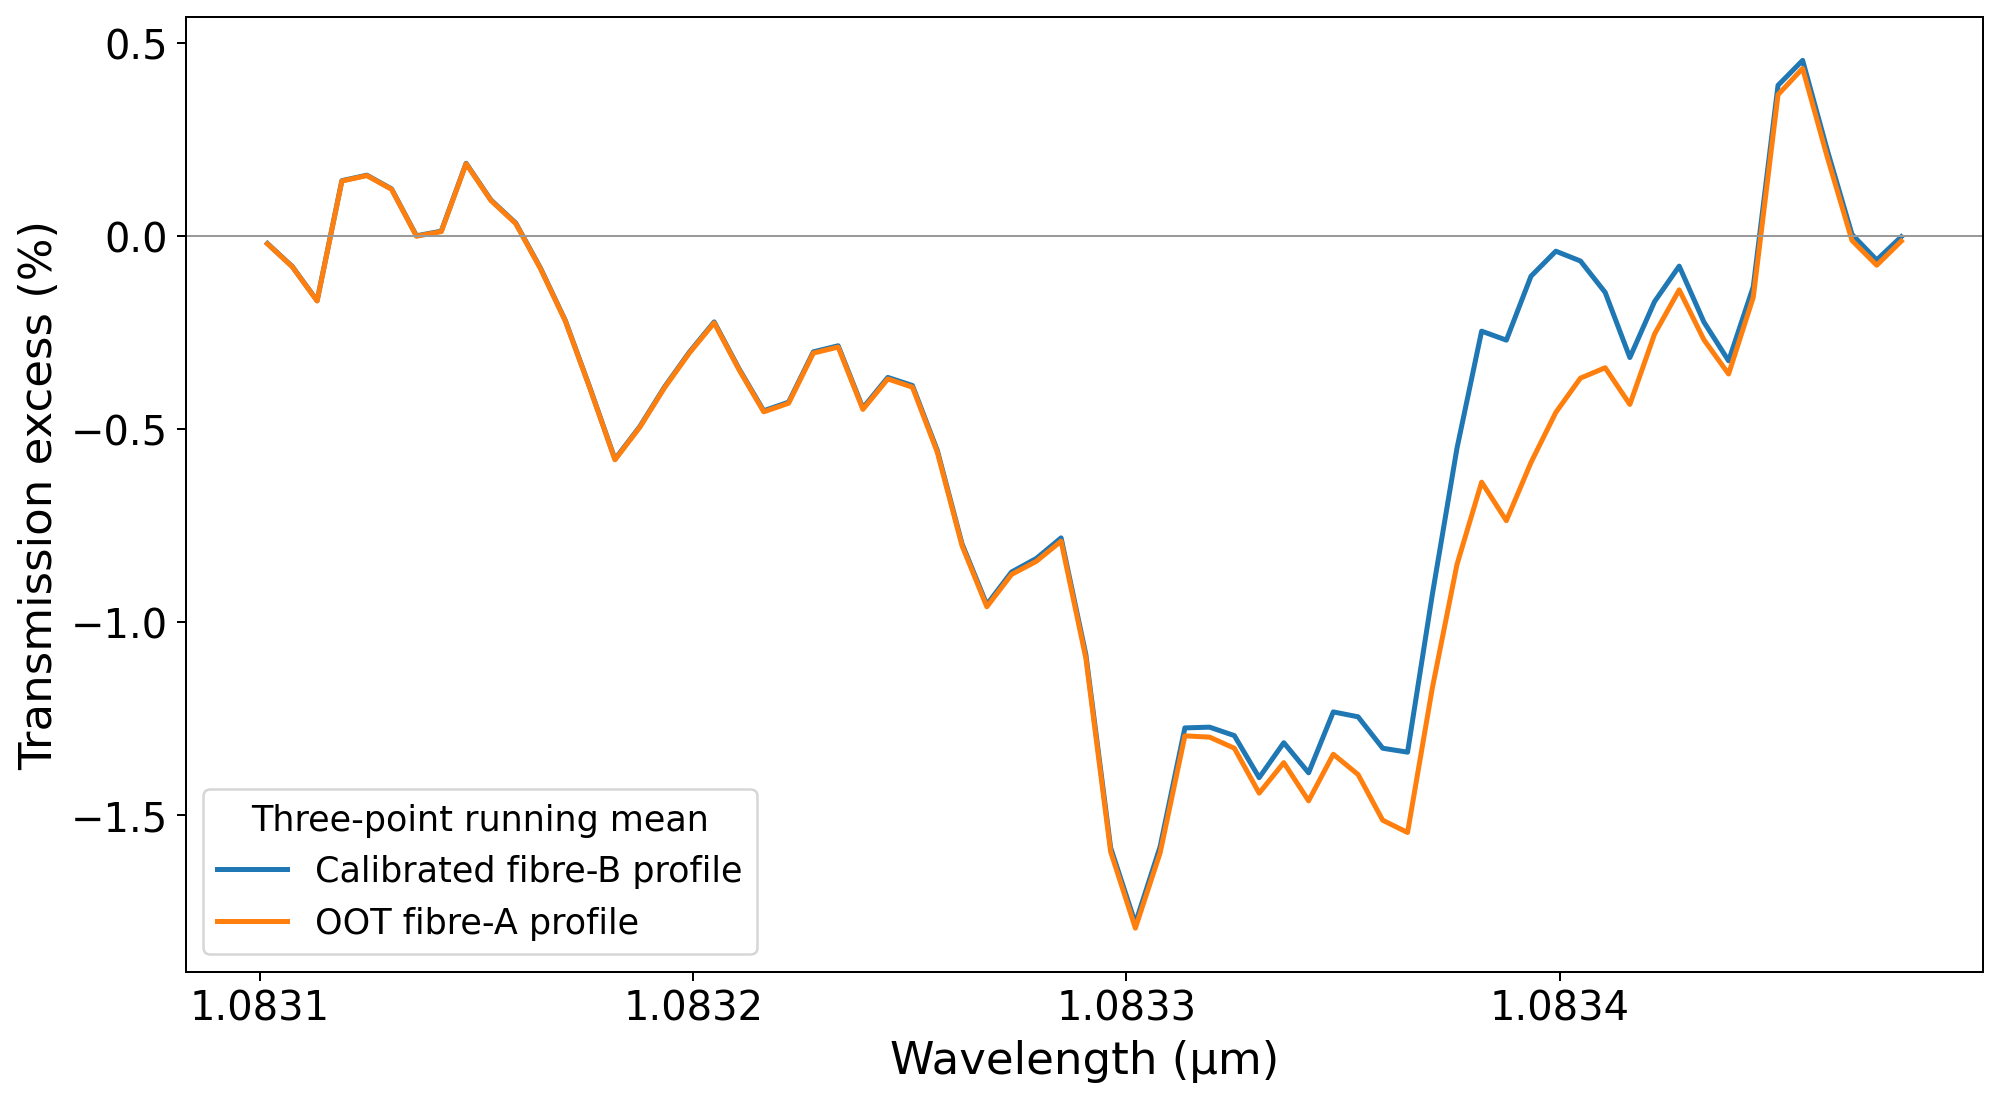
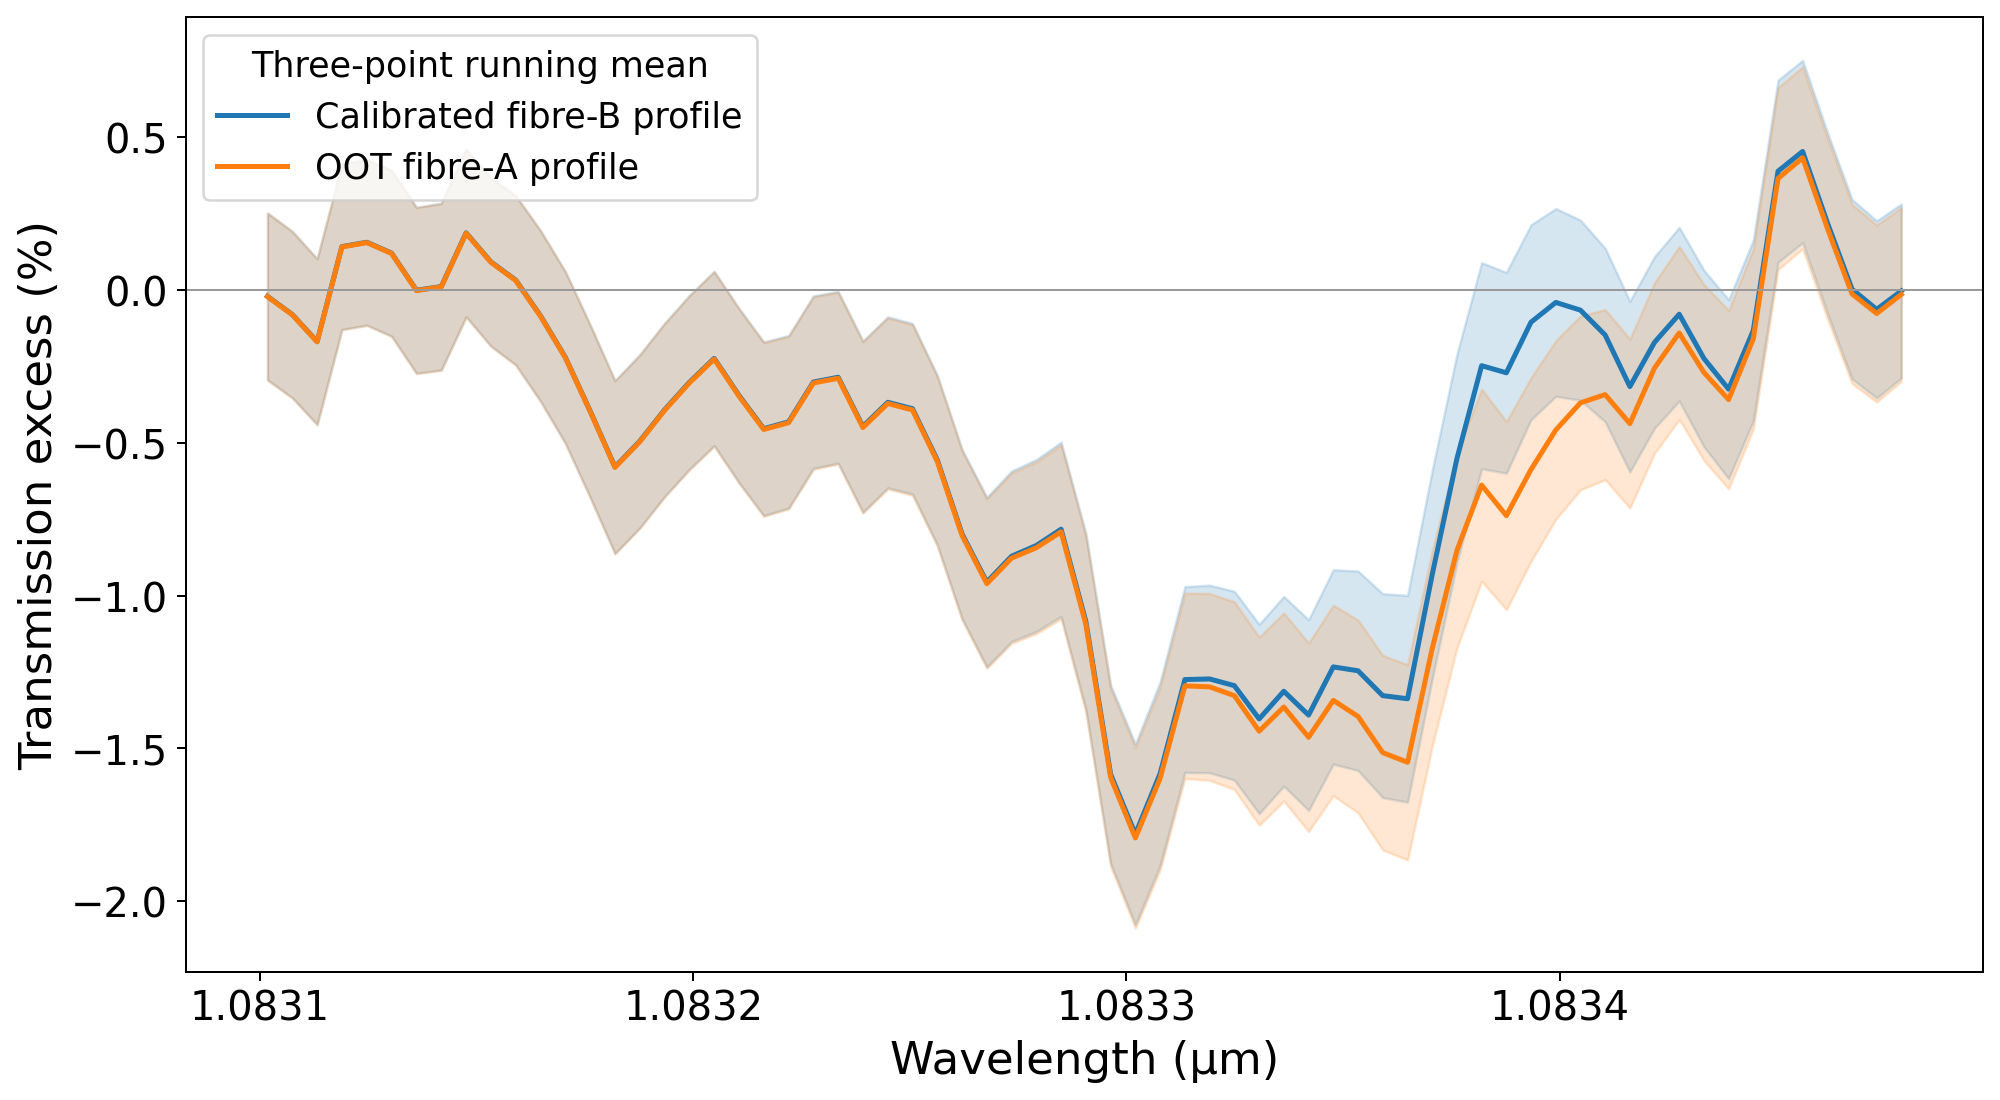
improve He tutorial

diff --git a/scripts/plot_carmenes_palle2020.py b/scripts/plot_carmenes_palle2020.py
@@ -107,14 +107,27 @@ def steps(directory,output_directory,cfg,science):
 
 
 def compare(directories,output):
-    """Compare saved planetary coadds with a three-point display mean."""
+    """Compare three-point display means with covariance-propagated 1σ bands."""
+    from scipy.sparse import csr_matrix, load_npz
     fig,ax=plt.subplots(figsize=(11,6),constrained_layout=True)
     labels=['Calibrated fibre-B profile','OOT fibre-A profile']
     for directory,label in zip(directories,labels):
         data=archive(directory/'transmission.npz');w=data['planet_wave_nm'];f=data['planet_coadd']
         smoothed=(f[:-2]+f[1:-1]+f[2:])/3;x=w[1:-1]
-        b=(x>=1083.1)&(x<=1083.48)&np.isfinite(smoothed)
-        ax.plot(x[b]/1000,100*(smoothed[b]-1),lw=2,label=label)
+        covariance=load_npz(directory/'planet_coadd_covariance.npz')
+        if covariance.shape!=(len(f),len(f)):
+            raise ValueError('Saved spectral covariance does not match the coadd')
+        indices=np.arange(len(f)-2)
+        smoother=csr_matrix((np.full(3*len(indices),1/3),
+            (np.tile(indices,3),np.concatenate([indices,indices+1,indices+2]))),
+            shape=(len(indices),len(f)))
+        uncertainty=np.sqrt(np.maximum((smoother@covariance@smoother.T).diagonal(),0))
+        widths=np.diff(w)
+        contiguous=(widths[:-1]<=5*np.median(widths))&(widths[1:]<=5*np.median(widths))
+        b=(x>=1083.1)&(x<=1083.48)&np.isfinite(smoothed)&np.isfinite(uncertainty)&contiguous
+        line,=ax.plot(x[b]/1000,100*(smoothed[b]-1),lw=2,label=label)
+        ax.fill_between(x[b]/1000,100*(smoothed[b]-1-uncertainty[b]),
+                        100*(smoothed[b]-1+uncertainty[b]),color=line.get_color(),alpha=.18)
     ax.axhline(0,color='.6',lw=.8)
     ax.set(xlabel='Wavelength (μm)',ylabel='Transmission excess (%)')
     ax.ticklabel_format(axis='x',useOffset=False);ax.xaxis.set_major_locator(MaxNLocator(5))

diff --git a/docs/tutorial.md b/docs/tutorial.md
@@ -1609,7 +1609,7 @@ python scripts/plot_carmenes_palle2020.py compare \
 :width: 95%
 :align: center
 
-Planetary spectra obtained with the calibrated fibre-B and OOT fibre-A profiles, displayed with a three-point running mean. The principal difference is in the red wing, where OH overlaps the helium signal. The band depths are approximately 1.34% and 1.37%, respectively. Smoothing is applied only to this comparison plot (the analysis retains the original pixels). Produced with `plot_carmenes_palle2020.py compare`.
+Planetary spectra obtained with the calibrated fibre-B and OOT fibre-A profiles, displayed with a three-point running mean. The shaded bands show ±1σ uncertainties propagated through the running mean, including correlations between neighbouring pixels. The principal difference is in the red wing, where OH overlaps the helium signal. The band depths are approximately 1.34% and 1.37%, respectively. Smoothing is applied only to this comparison plot (the analysis retains the original pixels). Produced with `plot_carmenes_palle2020.py compare`.
 ```
 
 Both runs retain the per-exposure corrected spectra in `observations.npz`, the transmission spectra and light curve in `transmission.npz`, their spectral covariance in `planet_coadd_covariance.npz`, and the OH calibration in `oh_report.json` and `oh_model.npz`. These products allow us to inspect the preparation and subsequently fit atmospheric models without repeating the telluric correction.
